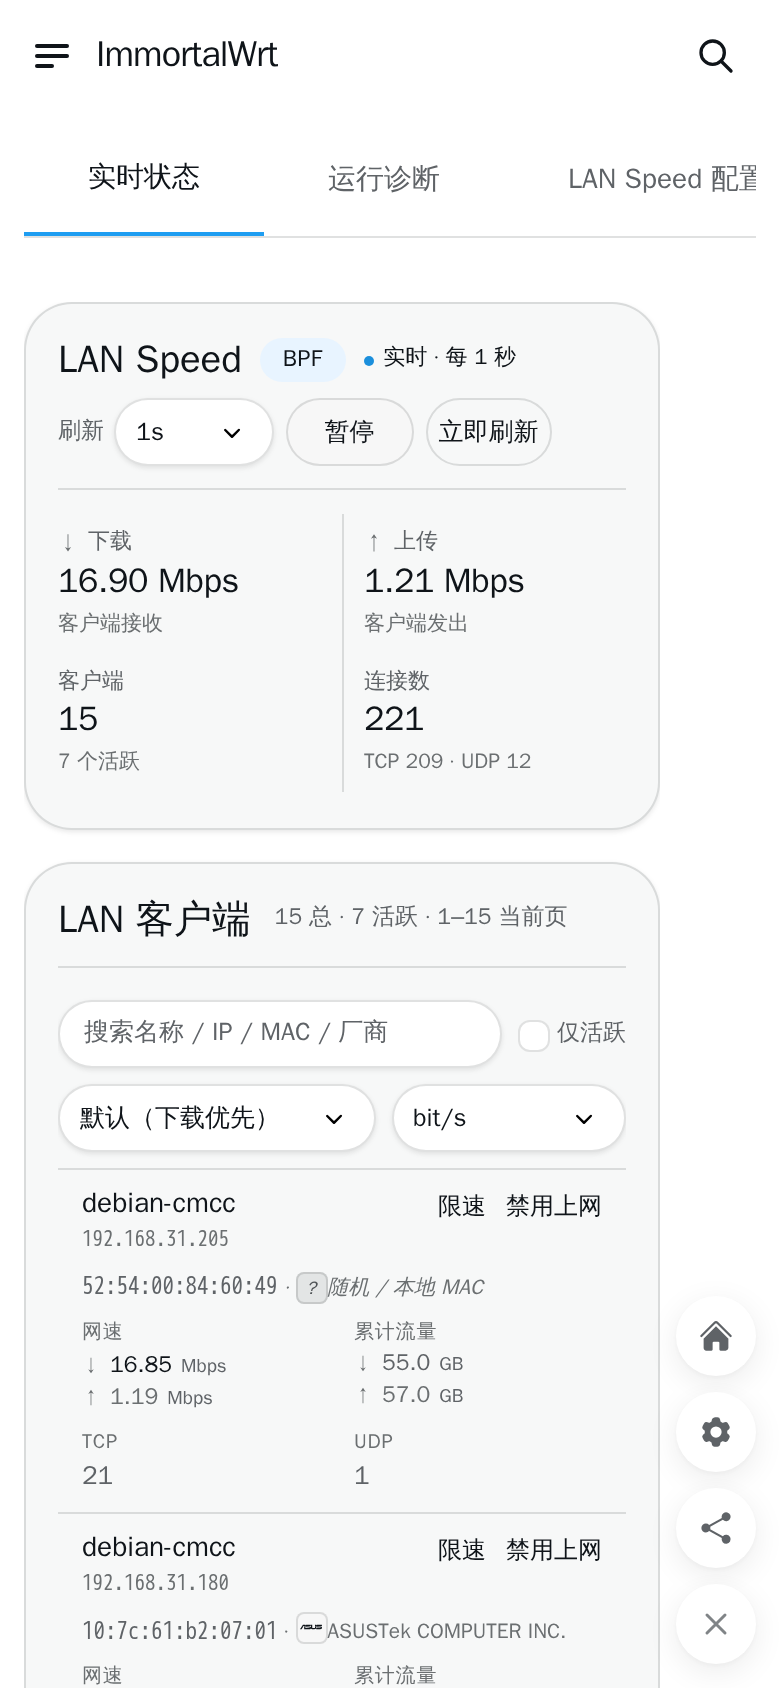
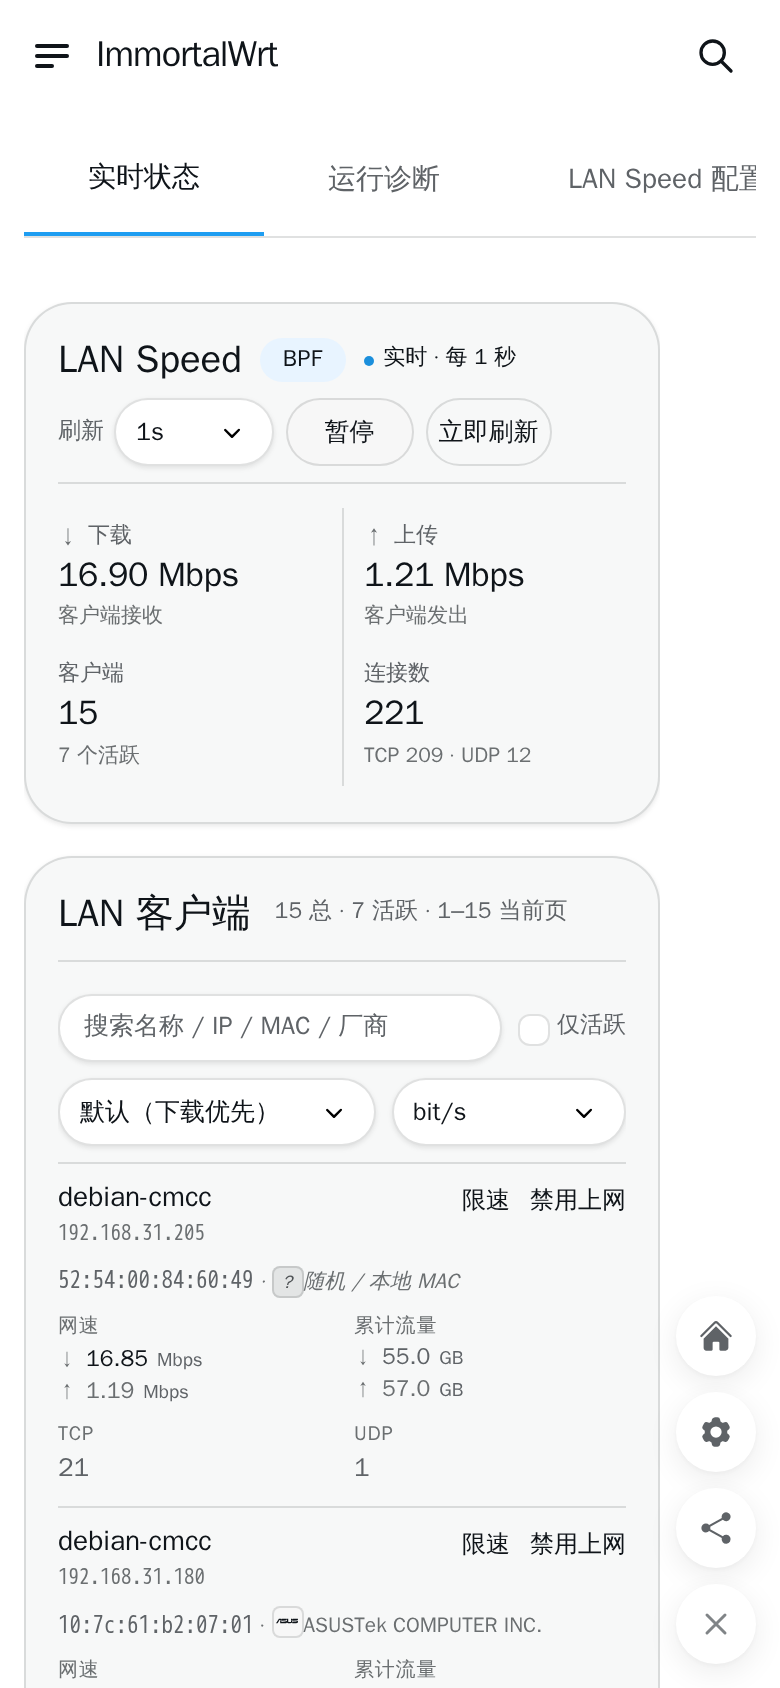
优化：统一数据页行内对齐与卡片边距

diff --git a/applications/luci-app-lanspeed/htdocs/luci-static/resources/lanspeed/statusStyleResponsive.js b/applications/luci-app-lanspeed/htdocs/luci-static/resources/lanspeed/statusStyleResponsive.js
@@ -20,7 +20,7 @@ var CARD_RULES = [
 	 * then a two-by-two block of readings so nothing is ever truncated. */
 	'.lanspeed-root .lanspeed-clients-table tbody>tr{display:grid;line-height:1.4;',
 	'  grid-template-columns:repeat(4,minmax(0,1fr));',
-	'  column-gap:12px;row-gap:8px;padding:10px 12px;',
+	'  column-gap:12px;row-gap:8px;padding:10px 0;',
 	'  border-bottom:1px solid var(--lanspeed-border)}',
 	'.lanspeed-clients-table tbody>tr:last-child{border-bottom:0}',
 	'.lanspeed-root .lanspeed-clients-table tbody td{display:block;min-width:0;padding:0;border:0;',
@@ -56,7 +56,7 @@ var CARD_RULES = [
 ].join('\n');
 
 var NARROW_RULES = [
-	'.lanspeed-root .lanspeed-clients-table tbody>tr{padding:9px 12px;row-gap:7px}',
+	'.lanspeed-root .lanspeed-clients-table tbody>tr{padding:9px 0;row-gap:7px}',
 	'.lanspeed-root .lanspeed-clients-table .lanspeed-client-rate,',
 	'.lanspeed-root .lanspeed-clients-table .lanspeed-client-total{font-size:11.5px}'
 ].join('\n');
@@ -89,7 +89,7 @@ return baseclass.extend({
 	 * instead of the tall phone block. */
 	'@container lanspeed-clients (min-width:34rem) and (max-width:' + CARD_MAX + '){',
 	'.lanspeed-root .lanspeed-clients-table tbody>tr{grid-template-columns:repeat(8,minmax(0,1fr));',
-	'  column-gap:12px;row-gap:10px;padding:12px 14px}',
+	'  column-gap:12px;row-gap:10px;padding:12px 0}',
 	'.lanspeed-root .lanspeed-clients-table td.lanspeed-client-name{grid-area:1/1/2/5}',
 	'.lanspeed-root .lanspeed-clients-table td.lanspeed-client-control{grid-area:1/5/2/9}',
 	'.lanspeed-root .lanspeed-clients-table td.lanspeed-client-mac{grid-area:2/1/3/9}',
@@ -101,7 +101,7 @@ return baseclass.extend({
 	/* Theme-scoped card tweaks: Aurora keeps its generous padding, Argon drops
 	 * its row stripe inside cards, Bootstrap strengthens the card border. */
 	'@container lanspeed-clients (max-width:' + CARD_MAX + '){',
-	'.lanspeed-theme-aurora .lanspeed-clients-table tbody>tr{padding:12px 14px}',
+	'.lanspeed-theme-aurora .lanspeed-clients-table tbody>tr{padding:12px 0}',
 	'.lanspeed-theme-argon .lanspeed-clients-table tbody>tr:nth-child(even){background:transparent}',
 	'.lanspeed-theme-bootstrap .lanspeed-clients-table tbody>tr{border-bottom-color:var(--lanspeed-border-strong)}}',
 

diff --git a/applications/luci-app-lanspeed/htdocs/luci-static/resources/lanspeed/statusStyleBase.js b/applications/luci-app-lanspeed/htdocs/luci-static/resources/lanspeed/statusStyleBase.js
@@ -22,6 +22,7 @@ var BASE_CSS = [
 	'.lanspeed-root{display:flex;flex-direction:column;gap:var(--lanspeed-page-gap);margin:0;min-width:0}',
 	'.lanspeed-root .cbi-section{font-weight:400}',
 	'.lanspeed-root>.cbi-section{padding:0;min-width:0}',
+	'.lanspeed-root .lanspeed-stats-card>.lanspeed-header{padding-bottom:8px!important}',
 	'.lanspeed-root :is(button,select,input,a):focus-visible{outline:2px solid var(--lanspeed-focus-color);',
 		'outline-offset:2px}',
 
@@ -136,6 +137,7 @@ var BASE_CSS = [
 	 * they never drift, while the name column absorbs whatever space is left. */
 	'.lanspeed-table-scroll{overflow-x:auto;overscroll-behavior-x:contain}',
 	'.lanspeed-table{width:100%;border-collapse:collapse;font-size:13px;line-height:1.35}',
+	'.lanspeed-clients-table tbody td{vertical-align:top}',
 	'.lanspeed-table :is(th,td){padding:6px 10px;text-align:left;vertical-align:middle;',
 		'border-bottom:1px solid var(--lanspeed-border)}',
 	'.lanspeed-table thead th{background:transparent;padding-top:8px;padding-bottom:8px;',
@@ -165,6 +167,14 @@ var BASE_CSS = [
 	'.lanspeed-clients-table [data-column-key="control"]{width:12%}',
 	'.lanspeed-root .lanspeed-clients-table :is(th,td):first-child{padding-left:0!important}',
 	'.lanspeed-root .lanspeed-clients-table :is(th,td):last-child{padding-right:0!important}}',
+	'@media (min-width:1600px){',
+	'.lanspeed-clients-table [data-column-key="hostname"]{width:22%}',
+	'.lanspeed-clients-table [data-column-key="mac"]{width:26%}',
+	'.lanspeed-clients-table [data-column-key="rate"]{width:15%}',
+	'.lanspeed-clients-table [data-column-key="totals"]{width:15%}',
+	'.lanspeed-clients-table [data-column-key="tcp_conns"],',
+	'.lanspeed-clients-table [data-column-key="udp_conns"]{width:5%}',
+	'.lanspeed-clients-table [data-column-key="control"]{width:12%}}',
 	'.lanspeed-clients-table thead th{position:relative}',
 	'.lanspeed-clients-table thead th[aria-sort="ascending"]::after,',
 	'.lanspeed-clients-table thead th[aria-sort="descending"]::after{content:"";position:absolute;',
